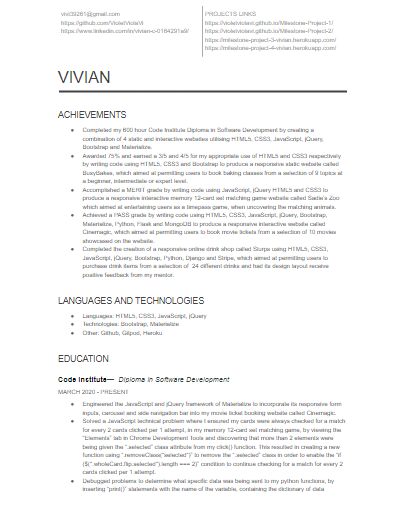
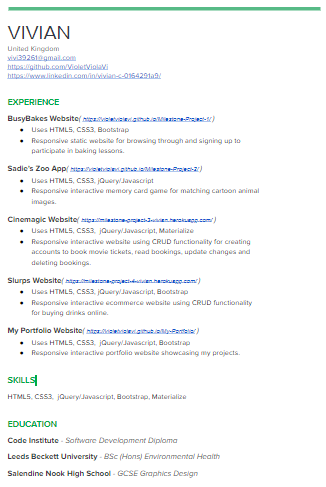
Change cv link and image.

Changed region(s): [[0.0, 0.0, 0.9816, 0.9856]]

diff --git a/index.html b/index.html
@@ -171,7 +171,7 @@
                <div class="col-12 col-md-6">
                   <h3>My CV</h3>
                   <figure>
-                     <a href="https://docs.google.com/document/d/11qh5X3f0bRRXHTegCmoTdo6NsZHCrMSYZg7mm33Sfxc/" target="_blank">
+                     <a href="https://docs.google.com/document/d/14yuOD_BB3-0yxpBJwa3S1-pPxA2WmhFXZ2athLIwHD0/" target="_blank">
                      <img class="cv-img" src="media/qualifications/cv.PNG" alt="Screenshot image of my CV.">
                      </a>
                   </figure>
